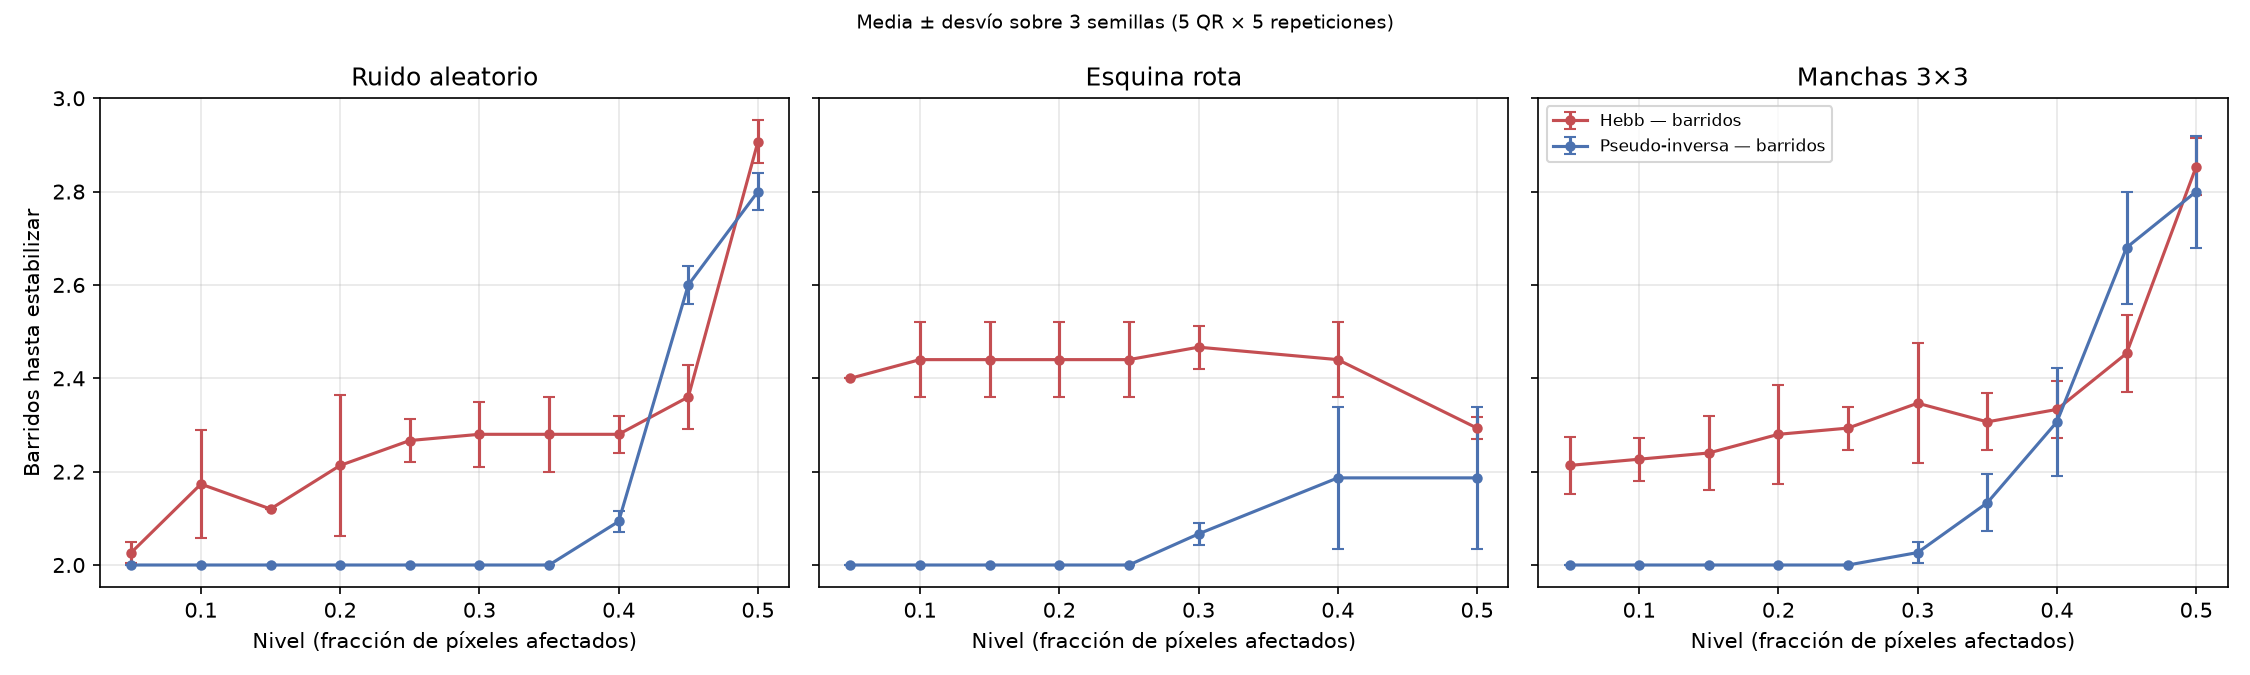
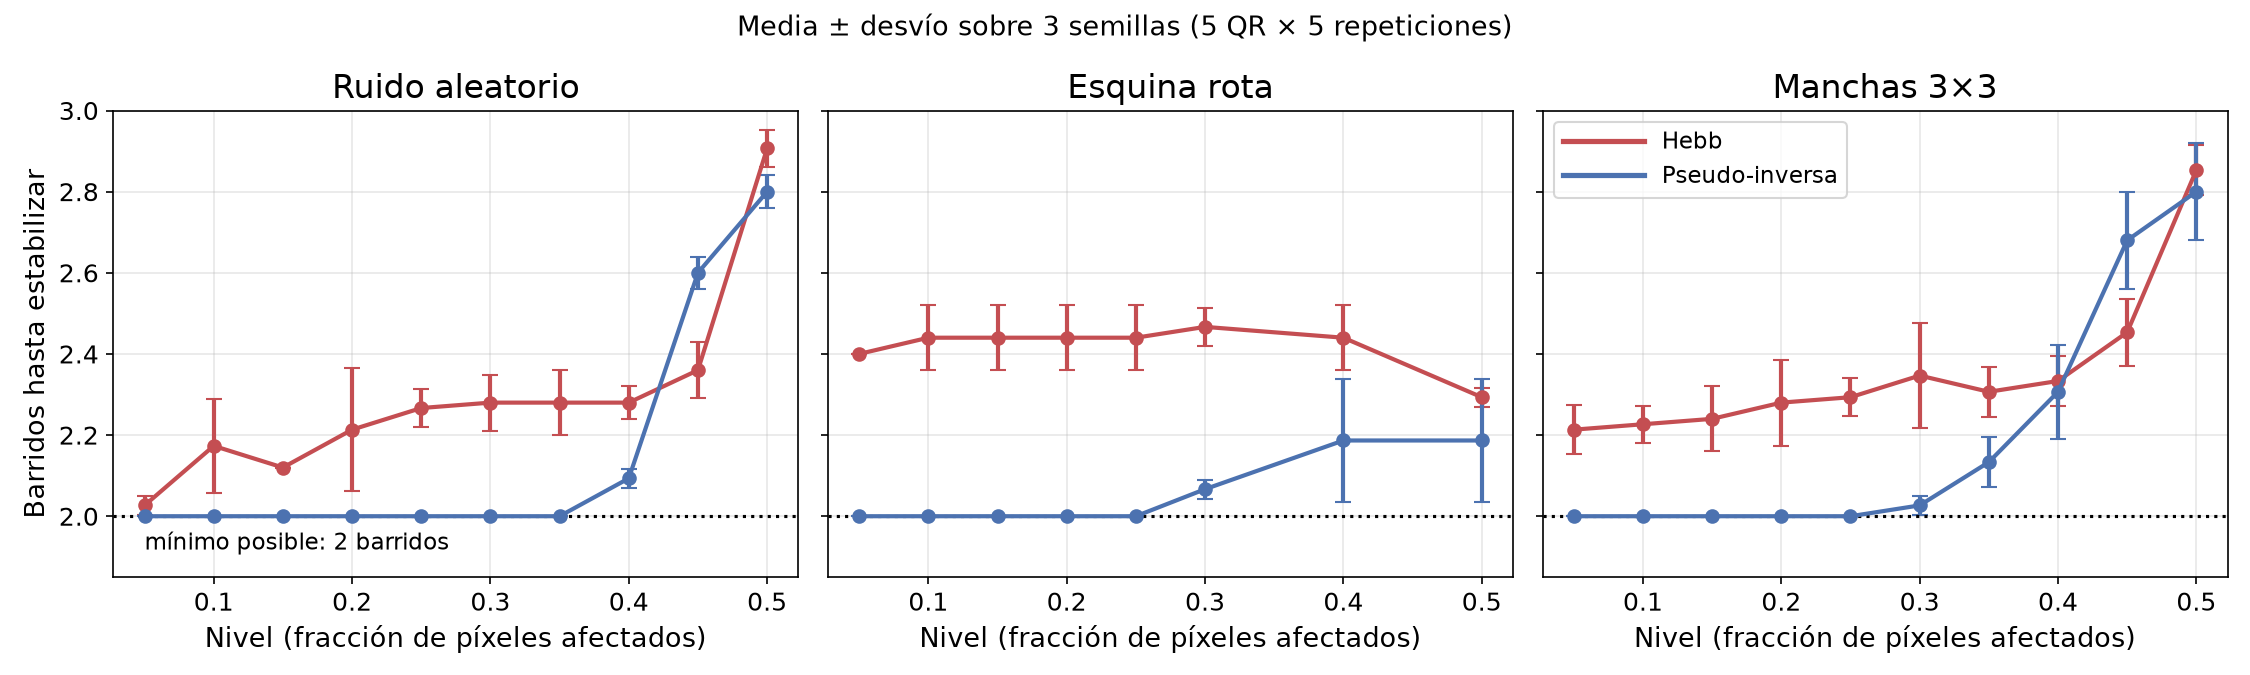
feat: figuras de QR, recuperación, energía y barridos legibles para la presentación

diff --git a/src/ej2/hopfield-qr-analisis.py b/src/ej2/hopfield-qr-analisis.py
@@ -23,6 +23,7 @@ import matplotlib
 matplotlib.use("Agg")
 
 import matplotlib.pyplot as plt
+from matplotlib.lines import Line2D
 import numpy as np
 import pandas as pd
 
@@ -44,6 +45,8 @@ NOMBRES_REGLA = {"hebb": "Hebb", "pseudoinversa": "Pseudo-inversa"}
 COLORES_REGLA = {"hebb": "#C44E52", "pseudoinversa": "#4C72B0"}
 PATRON_CARPETA = re.compile(r"^(ruido|esquina|manchas)_([0-9.]+)_semilla_(\d+)$")
 PATRON_DETALLE = re.compile(r"^detalle_(ruido|esquina|manchas)_([0-9.]+)$")
+CASOS_ENERGIA = (("esquina", 0.25), ("manchas", 0.25), ("ruido", 0.4))
+COLORES_CASO = {"esquina": "#DD8452", "manchas": "#55A868", "ruido": "#8172B3"}
 TASAS = ("correcto", "incorrecto", "espurio", "otro")
 
 
@@ -228,11 +231,18 @@ def _figura_correlacion(red: dict, solapamiento: np.ndarray, ruta: Path) -> None
 
 
 def _figura_por_nivel(
-    resumen: pd.DataFrame, metricas: Sequence[tuple[str, str]], ylabel: str, ruta
+    resumen: pd.DataFrame,
+    metricas: Sequence[tuple[str, str]],
+    ylabel: str,
+    ruta,
+    reglas: Sequence[str] | None = None,
+    piso: float | None = None,
 ) -> None:
     fig, ejes = plt.subplots(1, len(DETERIOROS), figsize=(15, 4.5), sharey=True)
     for eje, deterioro in zip(ejes, DETERIOROS, strict=True):
         datos = resumen[resumen["deterioro"] == deterioro]
+        if reglas is not None:
+            datos = datos[datos["regla"].isin(reglas)]
         for regla, grupo in datos.groupby("regla"):
             for metrica, estilo in metricas:
                 eje.errorbar(
@@ -242,16 +252,42 @@ def _figura_por_nivel(
                     color=COLORES_REGLA.get(regla, "0.3"),
                     linestyle=estilo,
                     marker="o",
-                    markersize=4,
-                    capsize=3,
-                    label=f"{NOMBRES_REGLA.get(regla, regla)} — {metrica}",
+                    linewidth=2,
+                    markersize=6,
+                    capsize=4,
+                    label=NOMBRES_REGLA.get(regla, regla)
+                    if len(metricas) == 1
+                    else f"{NOMBRES_REGLA.get(regla, regla)} — {metrica}",
                 )
-        eje.set_title(NOMBRES_DETERIORO[deterioro])
-        eje.set_xlabel("Nivel (fracción de píxeles afectados)")
+        eje.set_title(NOMBRES_DETERIORO[deterioro], fontsize=16)
+        eje.set_xlabel("Nivel (fracción de píxeles afectados)", fontsize=13)
+        eje.tick_params(labelsize=12)
         eje.grid(alpha=0.3)
-    ejes[0].set_ylabel(ylabel)
-    ejes[-1].legend(fontsize=8)
-    fig.suptitle("Media ± desvío sobre 3 semillas (5 QR × 5 repeticiones)", fontsize=9)
+        if piso is not None:
+            eje.axhline(piso, color="black", ls=":", lw=1.5)
+            eje.set_ylim(piso - 0.15, 3.0)
+    if piso is not None:
+        ejes[0].annotate(
+            "mínimo posible: 2 barridos",
+            (0.05, piso),
+            xytext=(0, -16),
+            textcoords="offset points",
+            fontsize=11,
+        )
+    ejes[0].set_ylabel(ylabel, fontsize=13)
+    contenedores, etiquetas = ejes[-1].get_legend_handles_labels()
+    lineas = [
+        Line2D(
+            [],
+            [],
+            color=c[0].get_color(),
+            linestyle=c[0].get_linestyle(),
+            linewidth=2.5,
+        )
+        for c in contenedores
+    ]
+    ejes[-1].legend(lineas, etiquetas, fontsize=11, handlelength=3.5)
+    fig.suptitle("Media ± desvío sobre 3 semillas (5 QR × 5 repeticiones)", fontsize=13)
     fig.tight_layout()
     fig.savefig(ruta, dpi=150)
     plt.close(fig)
@@ -268,83 +304,75 @@ def _detalles(directorio: Path) -> dict[tuple[str, float], Path]:
 
 
 def _figura_energia(redes: dict[str, dict], patron: str, ruta: Path) -> None:
-    fig, ejes = plt.subplots(1, len(redes), figsize=(7 * len(redes), 4.8))
+    """Energía por paso, normalizada: 0 es la energía del QR original."""
+    fig, ejes = plt.subplots(1, len(redes), figsize=(15, 4.8), sharex=True, sharey=True)
     ejes = np.atleast_1d(ejes)
     for eje, (regla, red) in zip(ejes, redes.items(), strict=True):
         n = red["filas"] * red["columnas"]
-        for (deterioro, nivel), carpeta in red["detalles"].items():
-            energia = pd.read_csv(carpeta / "energia_actualizaciones.csv")
+        referencia = (
+            red["estabilidad"].set_index("nombre").loc[patron, "energia_inicial"]
+        )
+        for caso in CASOS_ENERGIA:
+            energia = pd.read_csv(red["detalles"][caso] / "energia_actualizaciones.csv")
             energia = energia[energia["consulta"] == patron]
+            relativa = (energia["energia"] - referencia) / abs(referencia)
             eje.plot(
                 energia["actualizacion"] / n,
-                energia["energia"],
-                label=f"{NOMBRES_DETERIORO[deterioro]} {nivel:g}",
+                relativa,
+                color=COLORES_CASO[caso[0]],
+                linewidth=2.5,
+                label=f"{NOMBRES_DETERIORO[caso[0]]} {caso[1]:g}",
             )
-        estable = red["estabilidad"].set_index("nombre").loc[patron, "energia_inicial"]
-        eje.axhline(estable, color="black", ls=":", lw=1, label=f"E({patron})")
-        eje.set_title(
-            f"{NOMBRES_REGLA.get(regla, regla)}: energía en cada actualización",
-            fontsize=10,
+        final = relativa.iloc[-1]
+        eje.axhline(0, color="black", ls=":", lw=1.5)
+        eje.annotate(
+            "energía del QR original",
+            (2.0, 0),
+            xytext=(0, 6),
+            textcoords="offset points",
+            ha="right",
+            fontsize=12,
         )
-        eje.set_xlabel("Barridos (actualizaciones / N)")
-        eje.set_ylabel("Energía H")
+        eje.annotate(
+            f"estado final: {final:+.1%} respecto del QR",
+            (2.0, final),
+            xytext=(0, -16),
+            textcoords="offset points",
+            ha="right",
+            fontsize=12,
+        )
+        eje.set_ylim(-0.15, 1.05)
+        eje.set_title(NOMBRES_REGLA.get(regla, regla), fontsize=16)
+        eje.set_xlabel("Barridos (actualizaciones / N)", fontsize=13)
+        eje.tick_params(labelsize=12)
         eje.grid(alpha=0.3)
-        eje.legend(fontsize=8)
-    fig.suptitle(f"Consulta: {patron}, semilla 0", fontsize=9)
+    ejes[0].set_ylabel("Energía relativa (H − H_QR) / |H_QR|", fontsize=13)
+    ejes[0].legend(fontsize=11, handlelength=2.5)
+    fig.suptitle(f"Consulta: {patron}, semilla 0", fontsize=13)
     fig.tight_layout()
     fig.savefig(ruta, dpi=150)
     plt.close(fig)
 
 
 def _figura_ejemplos(redes: dict[str, dict], patron: str, ruta: Path) -> None:
-    reglas = list(redes)
+    """Consultas deterioradas de cada caso, dispuestas en una fila."""
     casos = sorted(set.intersection(*(set(r["detalles"]) for r in redes.values())))
-    primera = redes[reglas[0]]
+    primera = next(iter(redes.values()))
     filas, columnas = primera["filas"], primera["columnas"]
     original = primera["patrones"][primera["nombres"].index(patron)]
 
-    fig, ejes = plt.subplots(
-        len(casos), 2 + len(reglas), figsize=(3 * (2 + len(reglas)), 3.1 * len(casos))
-    )
-    ejes = np.atleast_2d(ejes)
-    for fila_eje, caso in zip(ejes, casos, strict=True):
-        iniciales = {
-            regla: _leer_estados(
-                redes[regla]["detalles"][caso] / "estados_iniciales.csv"
-            )
-            for regla in reglas
-        }
-        inicial = iniciales[reglas[0]].loc[patron, _pixeles(iniciales[reglas[0]])]
-        for regla in reglas[1:]:
-            otra = iniciales[regla].loc[patron, _pixeles(iniciales[regla])]
-            if not np.array_equal(inicial.to_numpy(), otra.to_numpy()):
-                raise ValueError(f"Consultas distintas entre reglas en {caso}.")
-
-        _imagen(fila_eje[0], original, filas, columnas)
-        fila_eje[0].set_title("Original", fontsize=9)
-        _imagen(fila_eje[1], inicial.to_numpy(), filas, columnas)
-        cambiados = int((inicial.to_numpy() != original).sum())
-        fila_eje[1].set_title(
+    fig, ejes = plt.subplots(1, 4, figsize=(20, 5.4))
+    for eje, caso in zip(ejes, casos, strict=True):
+        iniciales = _leer_estados(primera["detalles"][caso] / "estados_iniciales.csv")
+        inicial = iniciales.loc[patron, _pixeles(iniciales)].to_numpy()
+        _imagen(eje, inicial, filas, columnas)
+        cambiados = int((inicial != original).sum())
+        eje.set_title(
             f"{NOMBRES_DETERIORO[caso[0]]} {caso[1]:g}\n({cambiados} píxeles distintos)",
-            fontsize=9,
+            fontsize=15,
         )
-        for eje, regla in zip(fila_eje[2:], reglas, strict=True):
-            carpeta = redes[regla]["detalles"][caso]
-            finales = _leer_estados(carpeta / "estados_finales.csv")
-            consulta = pd.read_csv(carpeta / "consultas.csv").set_index("consulta")
-            _imagen(
-                eje, finales.loc[patron, _pixeles(finales)].to_numpy(), filas, columnas
-            )
-            eje.set_title(
-                f"{NOMBRES_REGLA.get(regla, regla)}: "
-                f"{consulta.loc[patron, 'tipo_resultado'].replace('almacenado_', '')}\n"
-                f"(Hamming {consulta.loc[patron, 'distancia_hamming']} a "
-                f"{consulta.loc[patron, 'nombre_mas_cercano']}, "
-                f"{consulta.loc[patron, 'barridos']} barridos)",
-                fontsize=8,
-            )
-    fig.tight_layout()
-    fig.savefig(ruta, dpi=150)
+    fig.tight_layout(w_pad=2)
+    fig.savefig(ruta, dpi=150, bbox_inches="tight")
     plt.close(fig)
 
 
@@ -486,12 +514,14 @@ def main(argv: Sequence[str] | None = None) -> int:
         [("correcto", "-"), ("espurio", "--")],
         "Fracción de consultas",
         salida / "fig_recuperacion.png",
+        reglas=("pseudoinversa",),
     )
     _figura_por_nivel(
         resumen,
         [("barridos", "-")],
         "Barridos hasta estabilizar",
         salida / "fig_barridos.png",
+        piso=2,
     )
     capacidad = tabla_capacidad(redes)
     capacidad.to_csv(salida / "capacidad.csv", index=False, float_format="%.6f")
